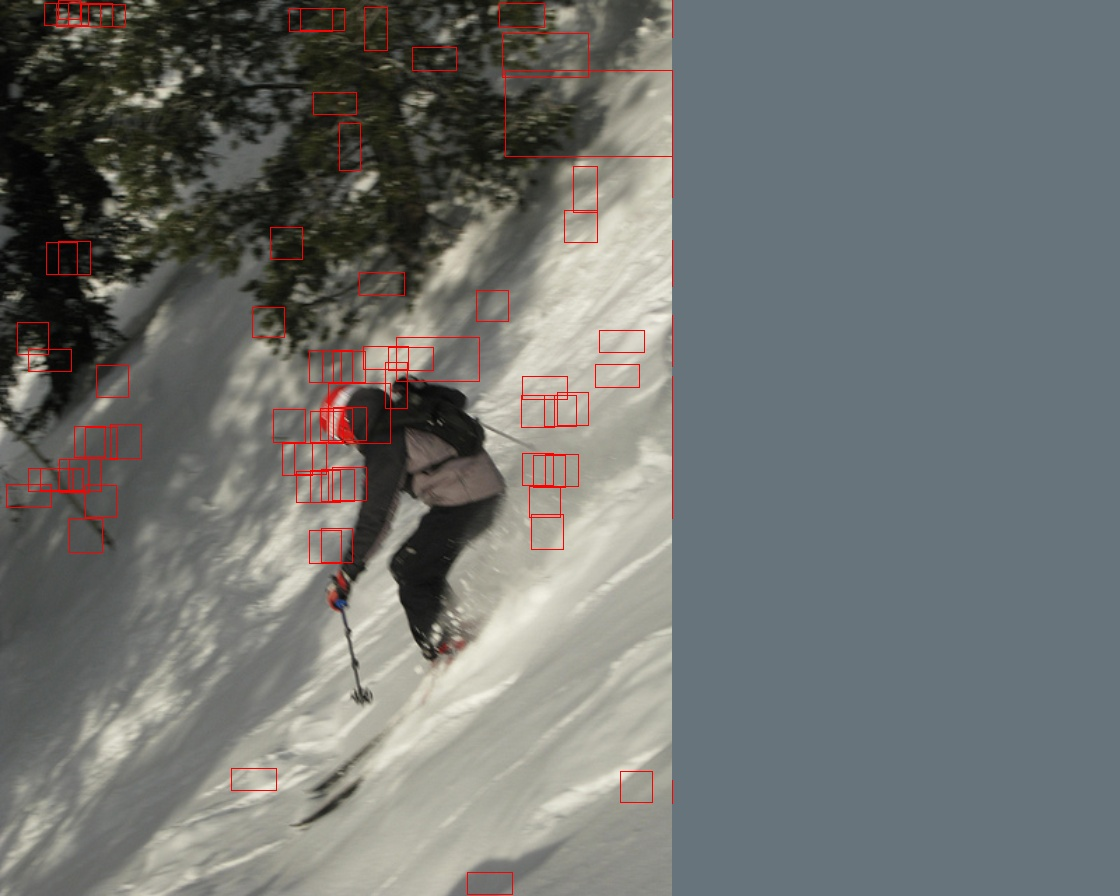
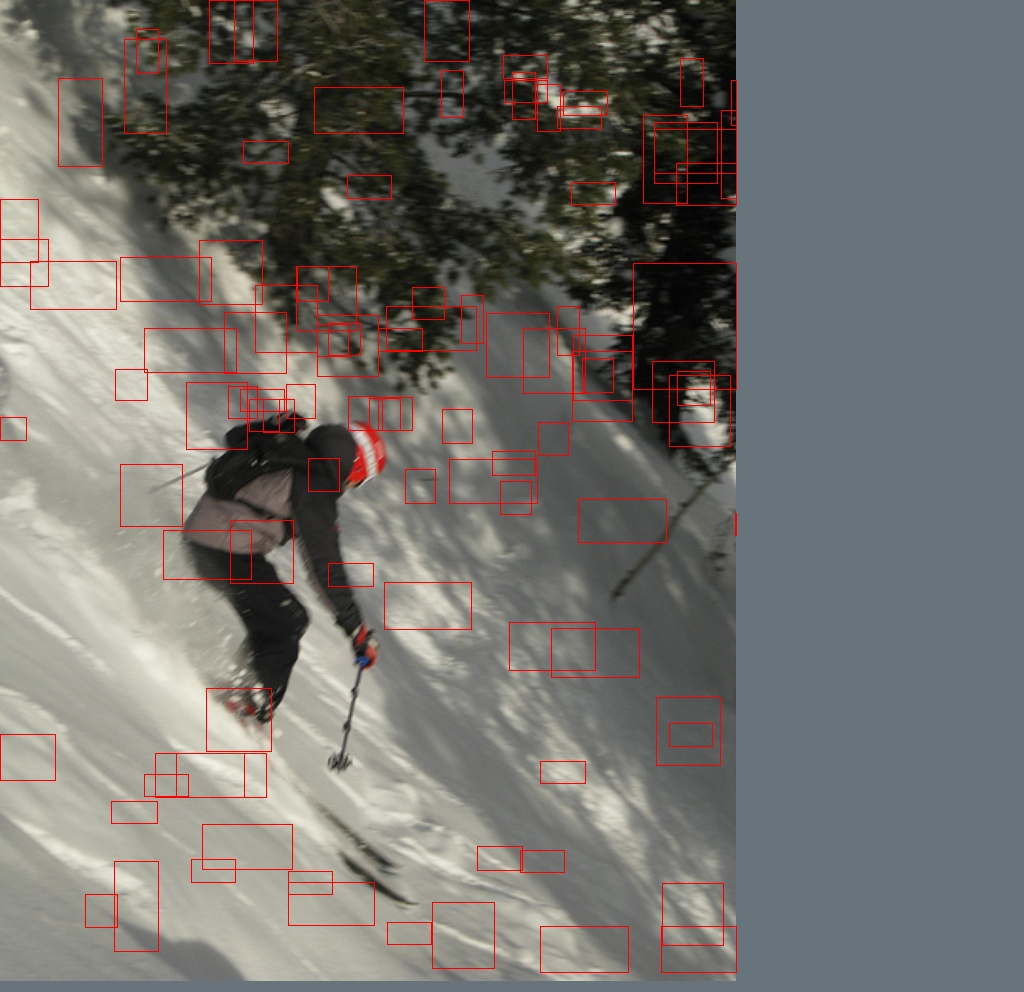
empty box filtering added 01/28:09

diff --git a/models/utils/proposal_utils.py b/models/utils/proposal_utils.py
@@ -387,8 +387,14 @@ def find_top_rpn_proposals(pred_proposals, pred_logits, image_sizes, is_training
         # clip boxes into image size
         boxes = clip(boxes, image_size)
 
+        # filter empty boxes
+        keep = torch.logical_not(torch.logical_or(boxes[:, 0] == boxes[:, 2], boxes[:, 1] == boxes[:, 3]))
+        if keep.sum().item() != len(boxes):
+            boxes, scores_per_img, lvl = boxes[keep], scores_per_img[keep], lvl[keep]
+
         # apply nms
         keep = apply_nms(boxes, scores_per_img, lvl, nms_thresh)
+
         # slice topk
         keep = keep[:post_nms_topk]
 
